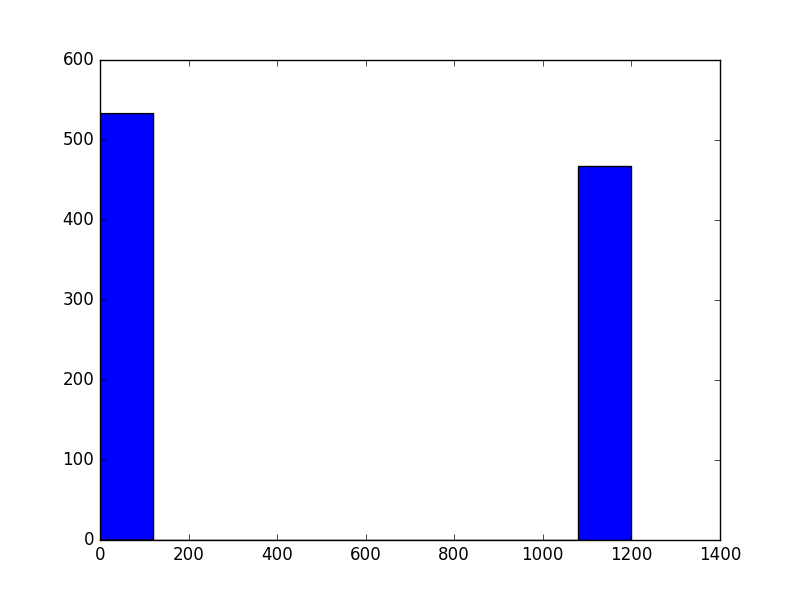
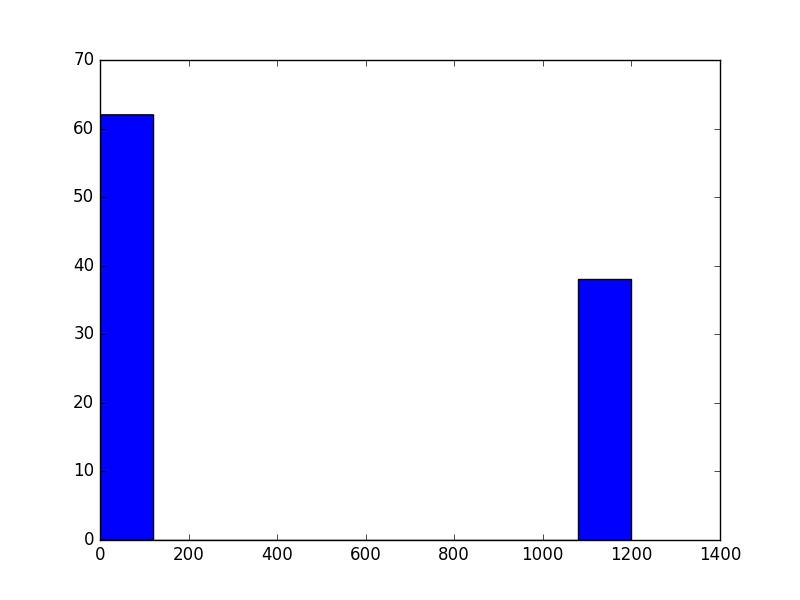
reduce test nomber to 100

diff --git a/runing_script.py b/runing_script.py
@@ -22,7 +22,7 @@ def count():
 
 def main():
   val = []
-  for i in range(1000):
+  for i in range(100):
     run_cyclus()
     val.append(count())
     print(i)
